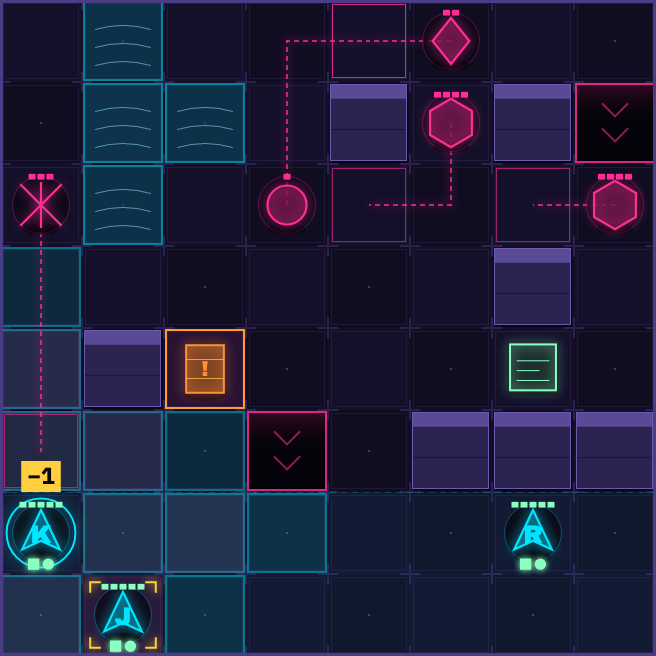
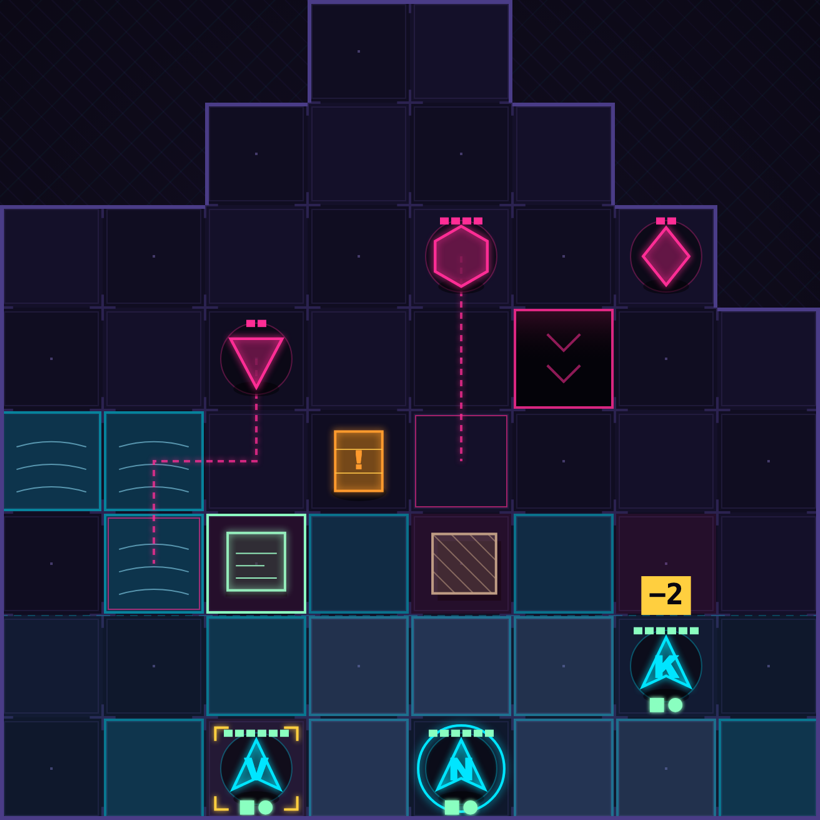
Move the game to /null-sector.html, refresh the screenshot, add OG images
The game now lives at null-sector.html (clearer URL than game.html, and it
matches the homepage section id). game.html becomes a thin redirect kept for the
old link: canonical → null-sector.html, meta-refresh, and a script that forwards
while preserving any query/hash — the static-site stand-in for a 301.

Fresh homepage screenshot showing the current game: an irregular room, a debris
block, coolant + console, hostiles telegraphing, and the operative squad. Added
a 1200x630 social image (images/null-sector-og.png) and wired it as the OG /
Twitter card image on both null-sector.html and the game.html redirect, so
shares of either URL preview correctly.

index.html points its Play link at the new URL; analytics.js and the README
reference it too.

Generated-By: PostHog Code
Task-Id: d665c02e-ef3a-461e-ad18-fe302e8adb54

diff --git a/game.html b/game.html
@@ -2,71 +2,38 @@
 <html lang="en">
 <head>
   <meta charset="utf-8">
-  <meta name="viewport" content="width=device-width, initial-scale=1, viewport-fit=cover">
-  <meta name="theme-color" content="#0a0812">
-  <meta name="mobile-web-app-capable" content="yes">
+  <meta name="viewport" content="width=device-width, initial-scale=1">
+
+  <!-- The game moved to /null-sector.html. This page is a redirect kept so old
+       links and shares don't break. The canonical tag points search engines at
+       the new URL; the meta-refresh and the script send visitors there (the
+       script preserves any ?query and #hash). GitHub Pages can't do a real 301,
+       so this is the static-site equivalent. -->
   <title>Null Sector — a game by Joe Martin</title>
   <meta name="description" content="Null Sector — a small turn-based cyberpunk tactics game. Into the Breach by way of Fallout. Plays in the browser.">
+  <link rel="canonical" href="https://joemartin.work/null-sector.html">
+  <meta http-equiv="refresh" content="0; url=null-sector.html">
 
   <meta property="og:title" content="Null Sector">
-  <meta property="og:description" content="A small turn-based cyberpunk tactics game. Plays in the browser.">
+  <meta property="og:description" content="A small turn-based cyberpunk tactics game. Into the Breach by way of Fallout. Plays in the browser.">
   <meta property="og:type" content="website">
-  <meta property="og:url" content="https://joemartin.work/game.html">
+  <meta property="og:url" content="https://joemartin.work/null-sector.html">
+  <meta property="og:image" content="https://joemartin.work/images/null-sector-og.png?v=20260728b">
+  <meta property="og:image:width" content="1200">
+  <meta property="og:image:height" content="630">
+  <meta name="twitter:card" content="summary_large_image">
+  <meta name="twitter:image" content="https://joemartin.work/images/null-sector-og.png?v=20260728b">
 
   <link rel="icon" href="images/favicon.png">
-
-  <link rel="preconnect" href="https://fonts.googleapis.com">
-  <link rel="preconnect" href="https://fonts.gstatic.com" crossorigin>
-  <link href="https://fonts.googleapis.com/css2?family=Archivo+Black&family=IBM+Plex+Mono:wght@400;500;600;700&display=swap" rel="stylesheet">
-
-  <!-- ?v= is a cache-buster: bump it whenever an asset below changes, so the
-       browser fetches the new file instead of a stale cached copy. -->
-  <link rel="stylesheet" href="game.css?v=20260728b">
+  <style>
+    html,body{margin:0;height:100%;background:#0b0818;color:#eafcff;
+      font-family:'IBM Plex Mono',ui-monospace,monospace;
+      display:flex;align-items:center;justify-content:center;text-align:center;}
+    a{color:#8affc0;}
+  </style>
+  <script>location.replace('null-sector.html' + location.search + location.hash);</script>
 </head>
 <body>
-  <div class="tac-app" data-app>
-
-    <header class="hud hud--top" data-hud-top>
-      <a class="hud__back" href="./" aria-label="Back to joemartin.work">&larr;</a>
-      <span class="hud__title">NULL SECTOR</span>
-      <div class="hud__right">
-        <span class="stat stat--wide"><b data-sector>01</b><i data-sector-name>The Approach</i></span>
-        <span class="stat stat--foe"><b data-foes>0</b><i>hostile</i></span>
-        <span class="stat stat--threat" data-threat hidden><b>0</b><i>drafted</i></span>
-        <button class="hud__help" type="button" data-help aria-label="Field manual">?</button>
-      </div>
-    </header>
-
-    <div class="stagewrap">
-      <canvas id="stage" data-stage aria-label="Tactics grid" role="img"></canvas>
-    </div>
-
-    <!-- Contextual readout: weapon stats, to-hit, what the next tap will do.
-         A floating panel beside the board on desktop; on a phone it docks as a
-         fixed-height sheet in the flex flow, so it reserves its own space and
-         the board never jumps or gets covered. -->
-    <div class="tip" data-tip hidden></div>
-
-    <footer class="hud hud--bottom" data-hud-bottom>
-      <div class="squad" data-squad aria-label="Squad"></div>
-      <div class="hud__acts" data-acts></div>
-      <button class="btn-end" type="button" data-end disabled>End turn</button>
-    </footer>
-
-    <div class="overlay" data-overlay hidden>
-      <div class="panel" data-panel></div>
-    </div>
-
-    <!-- CRT pass: scanlines + a soft vignette over the whole app. Purely
-         decorative, never interactive, and disabled for reduced-motion. -->
-    <div class="hitflash" data-flash aria-hidden="true"></div>
-    <div class="crt" data-crt aria-hidden="true"></div>
-
-    <span class="sr-only" aria-live="polite" data-live></span>
-    <div class="toosmall">Turn your phone upright, or open this on a bigger screen.</div>
-  </div>
-
-  <script src="analytics.js?v=20260728b" defer></script>
-  <script src="game.js?v=20260728b" defer></script>
+  <p>Null Sector has moved. <a href="null-sector.html">Continue to the game &rarr;</a></p>
 </body>
 </html>

diff --git a/null-sector.html b/null-sector.html
@@ -1,0 +1,81 @@
+<!DOCTYPE html>
+<html lang="en">
+<head>
+  <meta charset="utf-8">
+  <meta name="viewport" content="width=device-width, initial-scale=1, viewport-fit=cover">
+  <meta name="theme-color" content="#0a0812">
+  <meta name="mobile-web-app-capable" content="yes">
+  <title>Null Sector — a game by Joe Martin</title>
+  <meta name="description" content="Null Sector — a small turn-based cyberpunk tactics game. Into the Breach by way of Fallout. Plays in the browser.">
+
+  <link rel="canonical" href="https://joemartin.work/null-sector.html">
+
+  <meta property="og:title" content="Null Sector">
+  <meta property="og:description" content="A small turn-based cyberpunk tactics game. Into the Breach by way of Fallout. Plays in the browser.">
+  <meta property="og:type" content="website">
+  <meta property="og:url" content="https://joemartin.work/null-sector.html">
+  <meta property="og:image" content="https://joemartin.work/images/null-sector-og.png?v=20260728b">
+  <meta property="og:image:width" content="1200">
+  <meta property="og:image:height" content="630">
+  <meta name="twitter:card" content="summary_large_image">
+  <meta name="twitter:title" content="Null Sector">
+  <meta name="twitter:description" content="A small turn-based cyberpunk tactics game. Plays in the browser.">
+  <meta name="twitter:image" content="https://joemartin.work/images/null-sector-og.png?v=20260728b">
+
+  <link rel="icon" href="images/favicon.png">
+
+  <link rel="preconnect" href="https://fonts.googleapis.com">
+  <link rel="preconnect" href="https://fonts.gstatic.com" crossorigin>
+  <link href="https://fonts.googleapis.com/css2?family=Archivo+Black&family=IBM+Plex+Mono:wght@400;500;600;700&display=swap" rel="stylesheet">
+
+  <!-- ?v= is a cache-buster: bump it whenever an asset below changes, so the
+       browser fetches the new file instead of a stale cached copy. -->
+  <link rel="stylesheet" href="game.css?v=20260728b">
+</head>
+<body>
+  <div class="tac-app" data-app>
+
+    <header class="hud hud--top" data-hud-top>
+      <a class="hud__back" href="./" aria-label="Back to joemartin.work">&larr;</a>
+      <span class="hud__title">NULL SECTOR</span>
+      <div class="hud__right">
+        <span class="stat stat--wide"><b data-sector>01</b><i data-sector-name>The Approach</i></span>
+        <span class="stat stat--foe"><b data-foes>0</b><i>hostile</i></span>
+        <span class="stat stat--threat" data-threat hidden><b>0</b><i>drafted</i></span>
+        <button class="hud__help" type="button" data-help aria-label="Field manual">?</button>
+      </div>
+    </header>
+
+    <div class="stagewrap">
+      <canvas id="stage" data-stage aria-label="Tactics grid" role="img"></canvas>
+    </div>
+
+    <!-- Contextual readout: weapon stats, to-hit, what the next tap will do.
+         A floating panel beside the board on desktop; on a phone it docks as a
+         fixed-height sheet in the flex flow, so it reserves its own space and
+         the board never jumps or gets covered. -->
+    <div class="tip" data-tip hidden></div>
+
+    <footer class="hud hud--bottom" data-hud-bottom>
+      <div class="squad" data-squad aria-label="Squad"></div>
+      <div class="hud__acts" data-acts></div>
+      <button class="btn-end" type="button" data-end disabled>End turn</button>
+    </footer>
+
+    <div class="overlay" data-overlay hidden>
+      <div class="panel" data-panel></div>
+    </div>
+
+    <!-- CRT pass: scanlines + a soft vignette over the whole app. Purely
+         decorative, never interactive, and disabled for reduced-motion. -->
+    <div class="hitflash" data-flash aria-hidden="true"></div>
+    <div class="crt" data-crt aria-hidden="true"></div>
+
+    <span class="sr-only" aria-live="polite" data-live></span>
+    <div class="toosmall">Turn your phone upright, or open this on a bigger screen.</div>
+  </div>
+
+  <script src="analytics.js?v=20260728b" defer></script>
+  <script src="game.js?v=20260728b" defer></script>
+</body>
+</html>

diff --git a/index.html b/index.html
@@ -178,10 +178,10 @@
             watch out as the enemy upgrades too. Endless levels with
             increasing difficulty!
           </p>
-          <a class="tac__go" href="game.html"><span aria-hidden="true">&gt; </span>Play Null Sector</a>
+          <a class="tac__go" href="null-sector.html"><span aria-hidden="true">&gt; </span>Play Null Sector</a>
         </div>
         <div class="tac__view">
-          <img src="images/null-sector.png" alt="Null Sector — a squad of neon operatives facing hostiles across a grid of hazards" loading="lazy">
+          <img src="images/null-sector.png?v=20260728b" alt="Null Sector — a squad of neon operatives facing hostiles across an irregular grid of hazards" loading="lazy">
         </div>
       </div>
     </section>

diff --git a/analytics.js b/analytics.js
@@ -11,7 +11,7 @@
    Autocapture is off, so every event below is deliberate.
    Nothing here is allowed to break the page: if PostHog is
    blocked or slow, tracking degrades to a no-op.
-   Loaded with `defer` on index.html and game.html.
+   Loaded with `defer` on index.html and null-sector.html.
    ============================================================ */
 (function () {
   'use strict';

diff --git a/README.md b/README.md
@@ -17,9 +17,11 @@ My personal site. Plain HTML/CSS, no build step, hosted free on GitHub Pages.
 ## Null Sector (the game)
 
 A turn-based tactics game that runs in the browser. It's a separate page, since
-it needs the whole viewport and mustn't scroll — [`game.html`](game.html),
-[`game.css`](game.css), [`game.js`](game.js). Section 07 of `index.html` links
-to it. Same rules as the rest of the site: no build step, no dependencies.
+it needs the whole viewport and mustn't scroll — [`null-sector.html`](null-sector.html),
+[`game.css`](game.css), [`game.js`](game.js). The Null Sector section of
+`index.html` links to it. `game.html` is a thin redirect kept for the old URL
+(canonical → `null-sector.html`). Same rules as the rest of the site: no build
+step, no dependencies.
 
 `game.js` is one IIFE split into numbered sections (config, RNG, data, rules,
 enemy AI, generation, verifier, render, input, turn controller). Two things
@@ -214,7 +216,7 @@ were checked; it's a test seam, not something production can reach.
 
 [`analytics.js`](analytics.js) wires the site and the game into PostHog
 (project **JoeMartin.work**, in the Joe-OS org). Loaded with `defer` on both
-`index.html` and `game.html`.
+`index.html` and `null-sector.html`.
 
 - **Cookieless.** `cookieless_mode: 'always'` — no cookies, no localStorage, no
   consent banner needed. Visitors are counted with a hash computed on PostHog's
